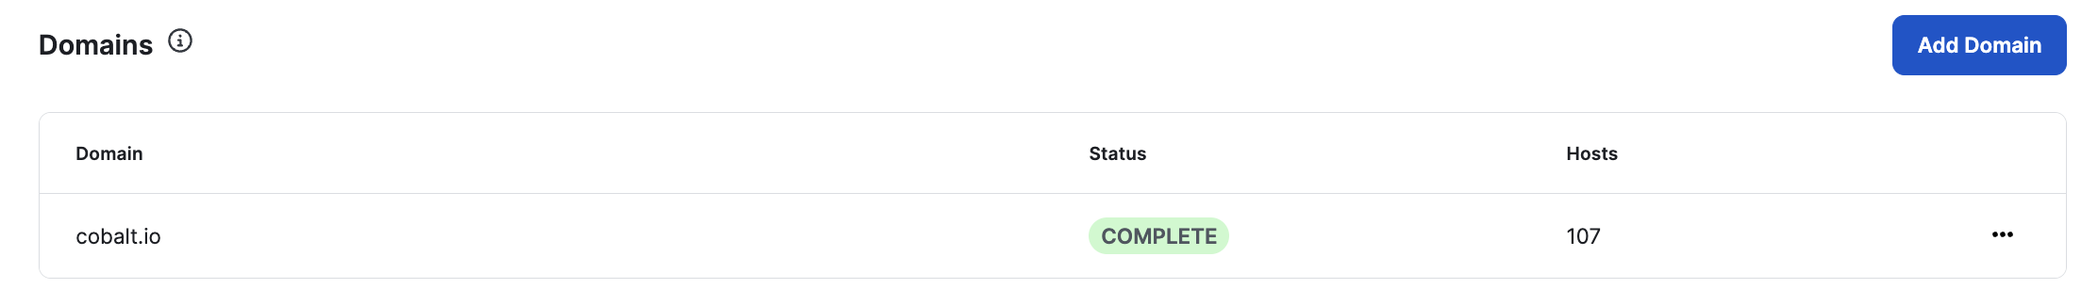
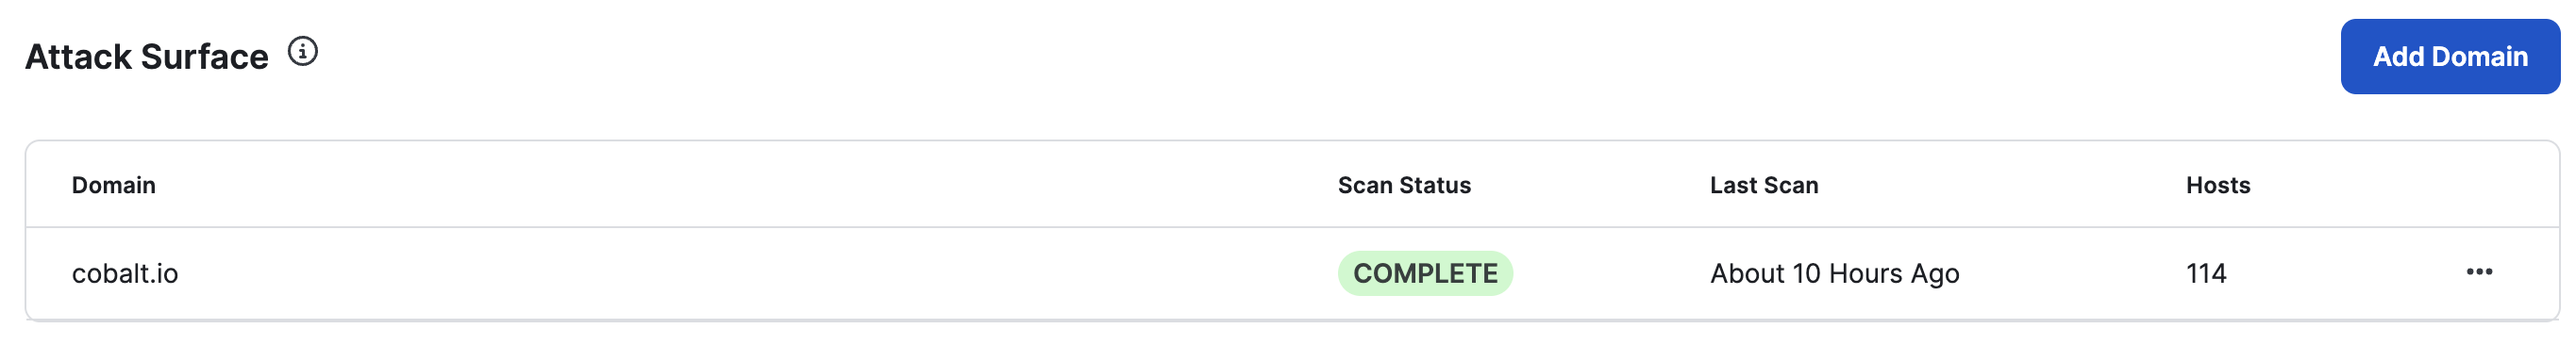
Rename Domains to Attack Surface; minor adaptions after full release (#493)
* Rename Domains to Attack Surface; minor adaptions after full release

* Add alias

* Add _index suffix

* Revert "Add _index suffix"

This reverts commit 9eb4317bde0567bd48daace4f74cc58a9f92b28d.

* Update screenshot

* Try relative redirect

diff --git a/content/en/Platform Deep Dive/Attack Surface/_index.md b/content/en/Platform Deep Dive/Attack Surface/_index.md
@@ -1,20 +1,22 @@
 ---
-title: "Domains"
-linkTitle: "Domains"
+title: "Attack Surface"
+linkTitle: "Attack Surface"
 weight: 40
 description: >
-  Domains (Beta) – Attack Surface Discovery.
+  Attack Surface Discovery and Monitoring.
+aliases:
+- domains
 ---
 
 {{% pageinfo %}}
 Scan your Domains to discover Hosts.
 {{% /pageinfo %}}
 
-One of the largest cybersecurity challenges for enterprises today is understanding their complete attack surface and its risk posture. Oftentimes, organizations may have publicly discoverable assets that they didn’t previously know about, leaving them exposed to attack. 
+One of the largest cybersecurity challenges for enterprises today is understanding their complete attack surface and its risk posture. Oftentimes, organizations may have publicly discoverable assets that they didn’t previously know about, leaving them exposed to attack.
 
-Domains is an experimental attack surface discovery/monitoring (ASM) feature to help customers understand what Hosts under their Domains are externally reachable, ensuring that all assets in their environment can be properly secured.
+Attack Surface is an attack surface discovery/monitoring (ASM) feature to help customers understand what Hosts under their Domains are externally reachable, ensuring that all assets in their environment can be properly secured.
 
-Domains will be launched with basic functionality that allows customers to see hosts under their Domains. Ultimately, Domains will grow in feature richness to accommodate for use cases such as:
+Attack Surface was launched with basic functionality that allows customers to see hosts under their Domains. Ultimately, Domains will grow in feature richness to accommodate for use cases such as:
 
 - Risks related to Hosts, e.g. risk for subdomain takeover
 - Auto-enumerating Domains from DNS providers (e.g. Route53, Cloudflare, etc)
@@ -22,9 +24,9 @@ Domains will be launched with basic functionality that allows customers to see h
 - Scan related URLs for vulnerabilities (DAST)
 - Weekly updates on new hosts in your attack surface
 
-## How to use the Domains feature
+## How to use the Attack Surface feature
 
-Go to the Domains (Beta) tab in the main left navigation menu
+Go to the Attack Surface tab in the main left navigation menu
 
 Here you can see the Domains that have already been added, and also you can add more Domains.
 
@@ -36,9 +38,9 @@ Use the “Add Domain” button to add a new Domain.
 
 When entering a Domain, please confirm that the Domain is associated with your Organization.
 
-When a Domain is added, Cobalt will start a scan searching for Hosts on the Domain. 
+When a Domain is added, Cobalt will start a scan searching for Hosts on the Domain.
 
-Cobalt will consecutively run daily scans on all Domains in the Domains list. 
+Cobalt will consecutively run daily scans on all Domains in the Domains list.
 
 ![Scan a domain](/deepdive/scanadomain.png "Scan a Domain")
 
@@ -68,14 +70,14 @@ Filtering for the date can be helpful e.g. if you want to surface only Host that
 
 ## How does the Takeover Risk work
 
-The Takeover Risk feature considers 5 conditions, that when are true could indicate a potential risk of DNS- or Subdomain takeover. 
+The Takeover Risk feature considers 5 conditions, that when are true could indicate a potential risk of DNS- or Subdomain takeover.
 
 1.  We did not reach a server with this IP, potentially someone could start a server with the same IP. If it’s only available within your VPN you should think about also having the DNS entry only available within your VPN.
 
 * What: The IP of this host seems to be offline as it does not react to any port.
-  
+
 * Why: That could mean you have a public DNS entry pointing to an IP which is only available in your VPN. Someone could start a server with the same IP in another network.
-  
+
 * Action: Think about also having the DNS entry only available within your VPN.This host refers to a website or api which did not respond successfully.
 
 * Severity: Informational
